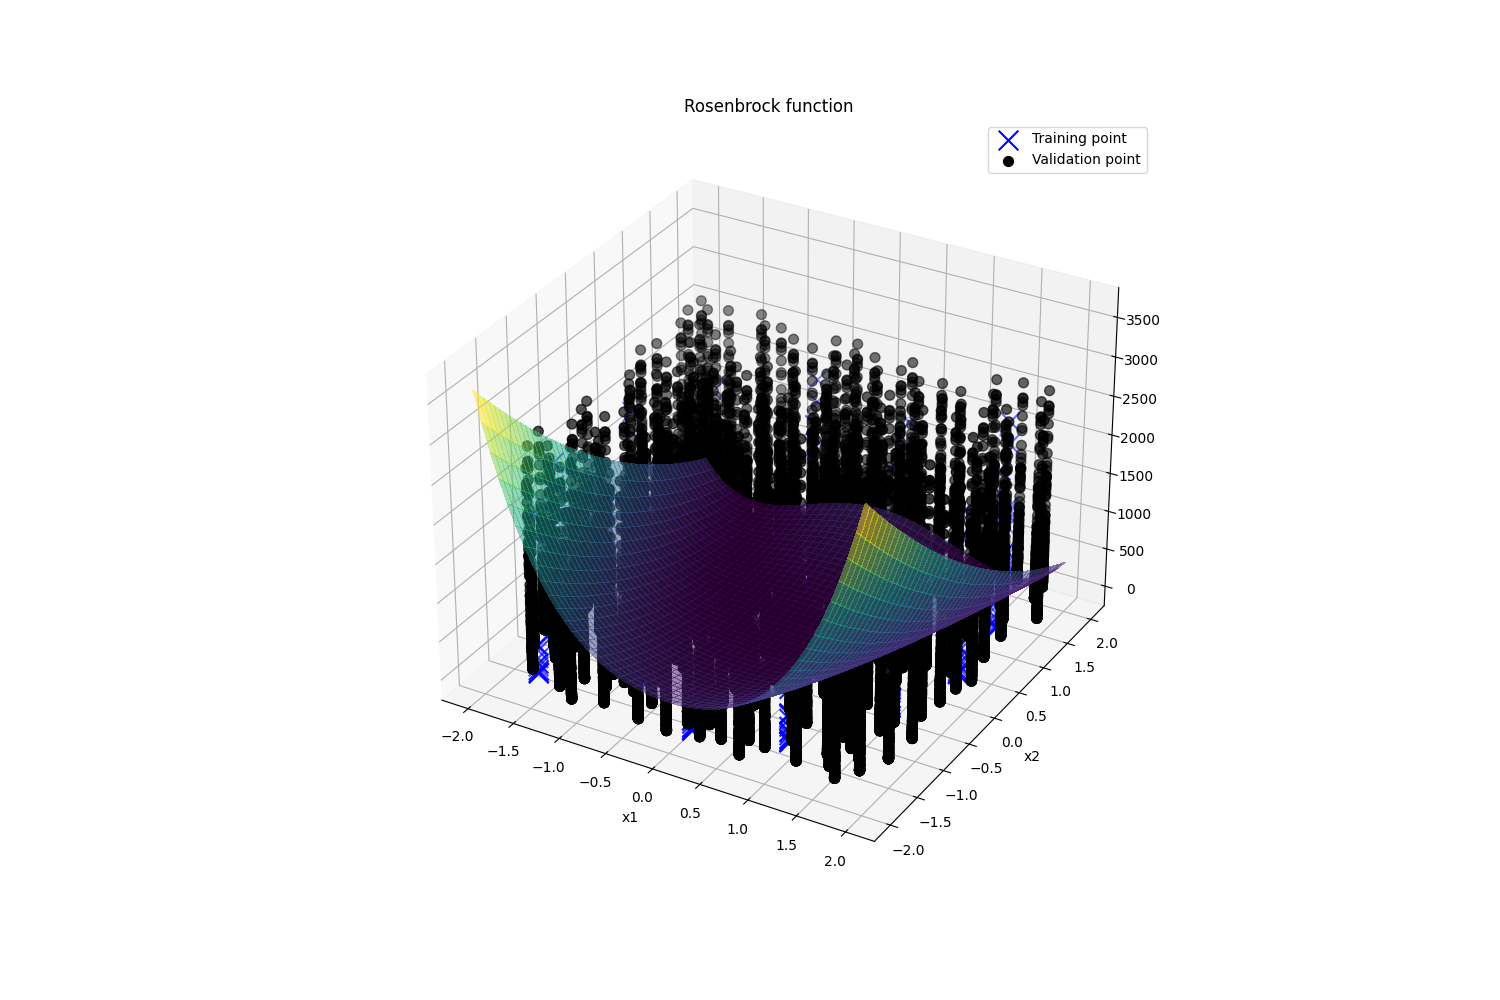
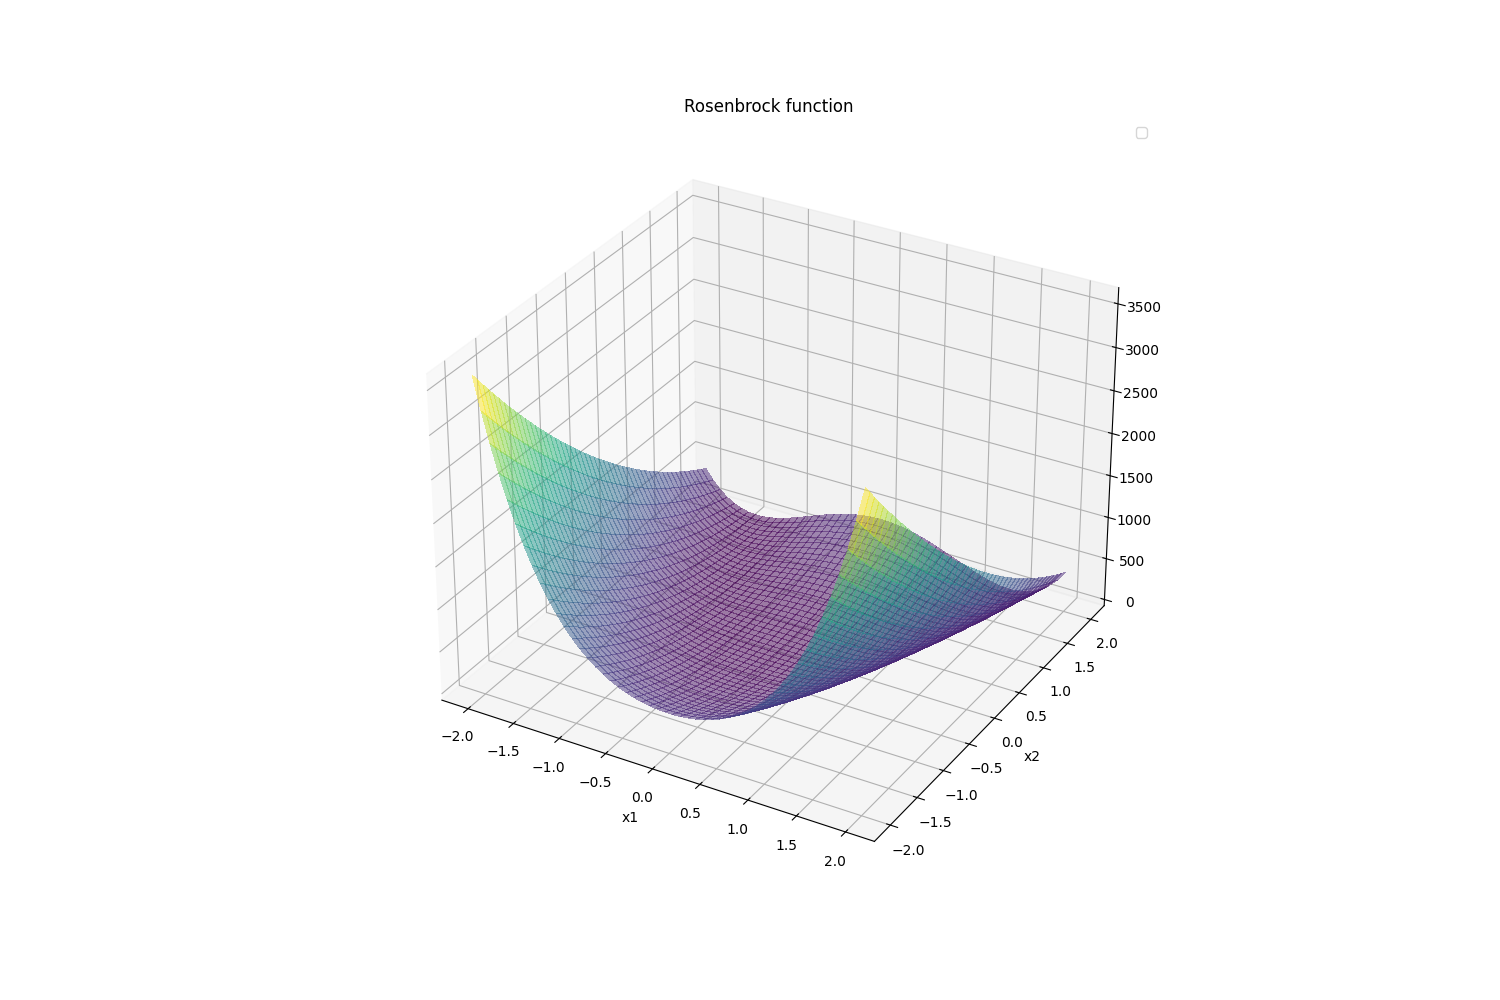
rbf_print_weight

diff --git a/12/RBF/rbf_smt.py b/12/RBF/rbf_smt.py
@@ -165,7 +165,11 @@ fun = Rosenbrock(ndim=ndim)
 # Construction of the DOE
 # in order to have the always same LHS points, random_state=1
 sampling = LHS(xlimits=fun.xlimits, criterion="ese", random_state=1)
+
+
+#ここで学習に用いるデータを決めている。
 xt = sampling(ndoe)
+print('input',xt)
 # Compute the outputs
 yt = fun(xt)
 
@@ -202,19 +206,19 @@ surf = ax.plot_surface(
     X, Y, res, cmap=cm.viridis, linewidth=0, antialiased=False, alpha=0.5
 )
 
-ax.scatter(
-    xt[:, 0], xt[:, 1], yt, zdir="z", marker="x", c="b", s=200, label="Training point"
-)
-ax.scatter(
-    xtest[:, 0],
-    xtest[:, 1],
-    ytest,
-    zdir="z",
-    marker=".",
-    c="k",
-    s=200,
-    label="Validation point",
-)
+# ax.scatter(
+#     xt[:, 0], xt[:, 1], yt, zdir="z", marker="x", c="b", s=200, label="Training point"
+# )
+# ax.scatter(
+#     xtest[:, 0],
+#     xtest[:, 1],
+#     ytest,
+#     zdir="z",
+#     marker=".",
+#     c="k",
+#     s=200,
+#     label="Validation point",
+# )
 
 plt.title("Rosenbrock function")
 plt.xlabel("x1")
@@ -250,4 +254,44 @@ if compiled_available:
         plt.legend(loc="upper left")
         plt.title("RBF model: validation of the prediction model")
         plt.savefig('RBF model: validation of the prediction model.png')
+        plt.close()
+        
+# To plot the Rosenbrock function
+x = np.linspace(-2, 2, 50)
+res = []
+for x0 in x:
+    for x1 in x:
+        res.append(t.predict_values(np.array([[x0, x1]])))
+res = np.array(res)
+res = res.reshape((50, 50)).T
+X, Y = np.meshgrid(x, x)
+fig = plt.figure(figsize=(15, 10))
+ax = fig.add_subplot(projection="3d")
+surf = ax.plot_surface(
+    X, Y, res, cmap=cm.viridis, linewidth=0, antialiased=False, alpha=0.5
+)
 
+# ax.scatter(
+#     xt[:, 0], xt[:, 1], yt, zdir="z", marker="x", c="b", s=200, label="Training point"
+# )
+# ax.scatter(
+#     xtest[:, 0],
+#     xtest[:, 1],
+#     ytest,
+#     zdir="z",
+#     marker=".",
+#     c="k",
+#     s=200,
+#     label="Validation point",
+# )
+
+plt.title("Rosenbrock function")
+plt.xlabel("x1")
+plt.ylabel("x2")
+plt.legend()
+plt.savefig('RBF_Rosenbrock function.png')
+
+
+
+print("Weights (重み):")
+print(t.sol[:,0])
